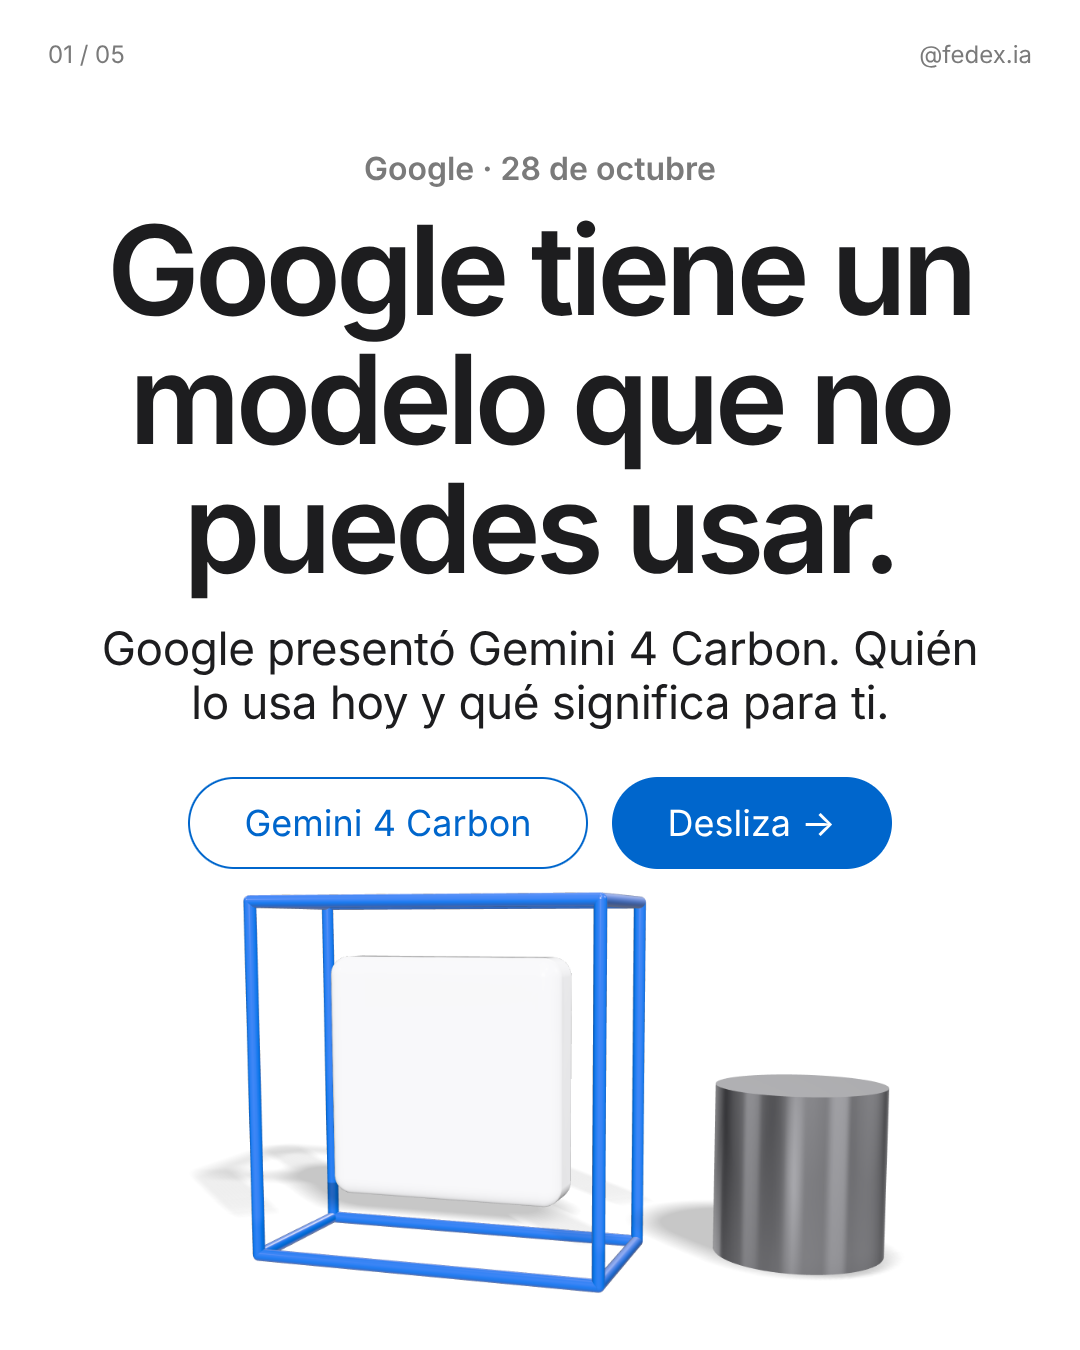
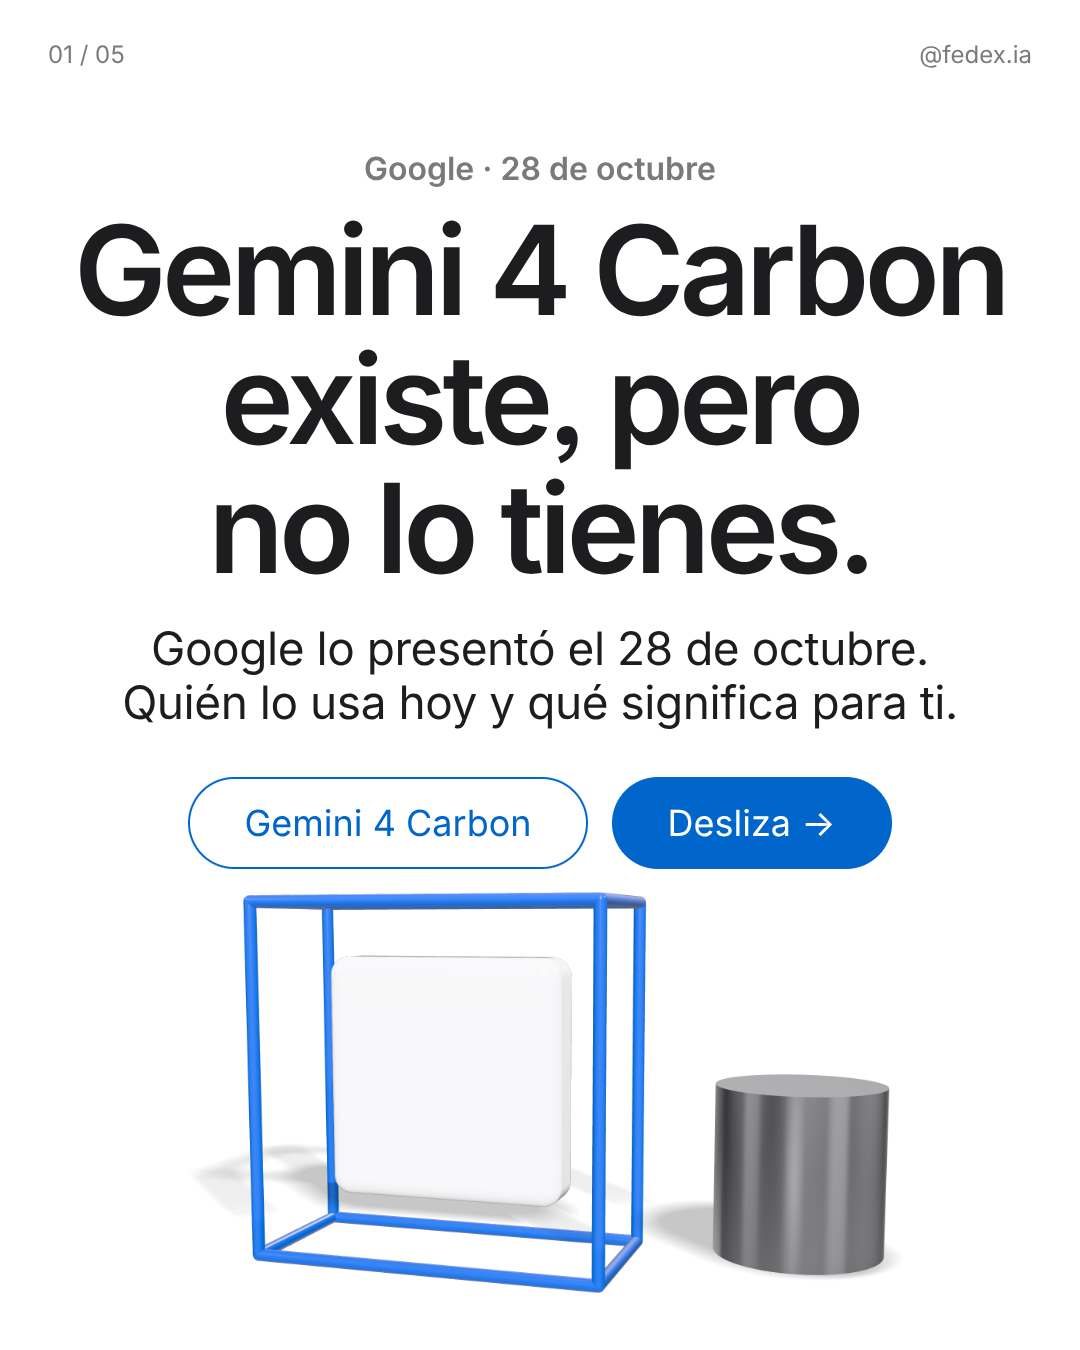
Borrador 2026-10-29: nuevo titular de portada
Claude-Session: https://claude.ai/code/session_01RSDjsJMA1CC6Hr4fewB6M8

Changed region(s): [[0.0611, 0.1556, 0.9472, 0.4356], [0.0917, 0.4667, 0.9167, 0.56]]

diff --git a/diario/2026-10-29-diario-gemini-4-carbon-acceso-limitado/copy.md b/diario/2026-10-29-diario-gemini-4-carbon-acceso-limitado/copy.md
@@ -10,11 +10,11 @@ Estado: pendiente de aprobación
 - Prensa: https://www.constellationr.com/insights/news/google-rolls-out-gemini-4-carbon
 
 ## Hooks
-1. Google tiene un modelo que no puedes usar. (usado)
-2. El modelo más fuerte de Google no es para ti todavía.
+1. Gemini 4 Carbon existe, pero no lo tienes. (usado)
+2. Google tiene un modelo que no puedes usar. (anterior, nota 71 en Dexter)
 
 ## Slides
-1. Portada (blanco). «Google tiene un modelo que no puedes usar.» Bajada: «Google presentó Gemini 4 Carbon. Quién lo usa hoy y qué significa para ti.» Pastillas: Gemini 4 Carbon / Desliza →. Objeto 3D: placa perla dentro de un marco azul y un cilindro plateado. Alt: Ilustración 3D de una placa perla dentro de un marco azul, al lado de un cilindro plateado. Texto: Google tiene un modelo que no puedes usar.
+1. Portada (blanco). «Gemini 4 Carbon existe, pero no lo tienes.» Bajada: «Google lo presentó el 28 de octubre. Quién lo usa hoy y qué significa para ti.» Pastillas: Gemini 4 Carbon / Desliza →. Objeto 3D: placa perla dentro de un marco azul y un cilindro plateado. Alt: Ilustración 3D de una placa perla dentro de un marco azul, al lado de un cilindro plateado. Texto: Gemini 4 Carbon ya existe, pero no lo tienes.
 2. (oscuro) «Google presenta Gemini 4 Carbon.» Cuerpo: «Según Google, es su modelo más fuerte en ciberseguridad y en tareas largas de varios pasos, como arreglar errores en código grande. Llega dos semanas después de Gemini 4 Argon.» Objeto: tres cajas en escalera, la más alta azul. Alt: Ilustración 3D de tres cajas perla apiladas en escalera, la más alta en azul. Texto: Google presenta Gemini 4 Carbon.
 3. (gris) «Hoy solo lo usan equipos de seguridad.» Cuerpo: «Google lo abrió a un grupo de defensores de ciberseguridad y sumará socios de a poco. Para el resto dice «lo antes posible», sin fecha. No especifica en qué países está disponible.» Objeto: fila de esferas plateadas con una azul al frente. Alt: Ilustración 3D de una fila de esferas plateadas con una sola esfera azul al frente. Texto: Hoy solo lo usan equipos de seguridad.
 4. (oscuro) «Para ti, por ahora, es una señal.» Cuerpo: «Todavía no está en la app de Gemini ni en la API. Google anunció un precio inicial de 2 dólares por millón de tokens de entrada y 10 de salida; después sube a 4 y 20.» Objeto: dos pilas de discos, la última de cada pila azul. Alt: Ilustración 3D de dos pilas de discos plateados, una baja y otra alta con el último disco azul. Texto: Para ti, por ahora, es una señal.
